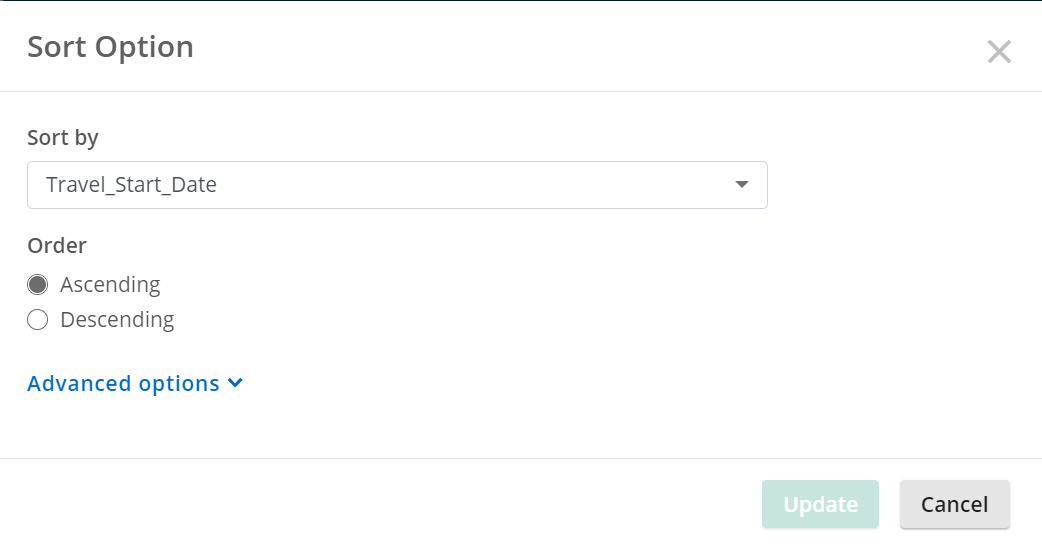
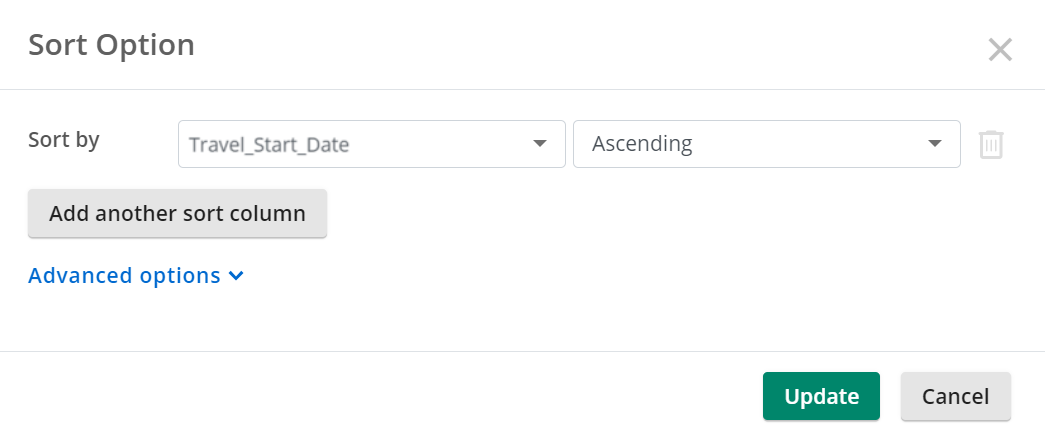
.11 release updates for Custom Reports and Lookup Table Enhancements best practices.

diff --git a/Content/Resources/Entities/lookup-tables.htm b/Content/Resources/Entities/lookup-tables.htm
@@ -11,11 +11,12 @@
             <li>Click <b>New</b>.</li>
             <li>Enter a name and description. </li>
             <li>Click <b>Choose File</b> and select the appropriate Excel document or CSV file to use as the source of the lookup table.</li>
+            <p class="note"><b>Note</b>: Upload speed will decrease as imported data sets and their file size increase.</p>
             <li><b>Optional:</b> Select the <b>Enable for Dynamic Fields</b>           option to allow the lookup table to be used as a data source for Laserfiche templates and fields when configuring dynamic fields. </li>
             <li><b>Optional:</b> Select the <b>Read-Only access to data</b> option to prevent modification of lookup table values through query rules. Recommended for cases where the lookup table data will not be updated or will only be updated through the <b>Replace Lookup Table Data</b> workflow activity.</li>
             <li><b>Optional:</b> Select the <b>Preserve Whitespace</b> option to save text as is. When not selected, Laserfiche will trim leading and trailing whitespace and normalize internal whitespace to a single space character.</li>
             <li>Click <b>Next</b> to proceed.</li>
-            <li>Choose which columns to include as part of the upload. When applicable, you will also be presented with an option to control the type of values. For example, if <MadCap:variable name="DoNotTranslate.Laserfiche" /> detects numerical values, you will have the option to choose whether to save the values as text or as a number.<p class="note"><b>Note</b>: Click the <b>Revert</b> button to return to their default values any changes made to column types and selected columns .</p></li>
+            <li>Choose which columns to include as part of the upload. When applicable, you will also be presented with an option to control the type of values. For example, if <MadCap:variable name="DoNotTranslate.Laserfiche" /> detects numerical values, you will have the option to choose whether to save the values as text or as a number.<p class="note"><b>Note</b>: Click the <b>Revert</b> button to return to their default values any changes made to column types and selected columns.</p></li>
             <li>Click <b>Create</b> to complete the upload process.</li>
         </ol>
         <h2>To update a lookup table</h2>
@@ -29,13 +30,14 @@
         </ol>
         <p class="note"><b>Note</b>: Use the download button (<img src="../Images/download.png" />) to download a copy of the data in the lookup table as a CSV file compressed as ZIP. This option can be useful when you want to bulk update the lookup table, but no longer have the original source Excel document or CSV file used to create the lookup table</p>
         <h3>Using a query rule to retrieve or update values </h3>
-        <p>Within Rules, create a Query to retrieve, insert, update or delete data from a lookup table. </p>
+        <p>Within Rules, create a Query to retrieve, insert, update or delete data from a lookup table. <span>Using the Rows to Return field to configure the desired number of rows for the query to return can increase performance.</span></p>
         <ol>
             <li>Within a workflow, use the <a href="../Workflow/Activities/Run-Business-Rules.htm" title="Click to learn more" alt="Click to learn more">Run Rule</a> activity to run the lookup table query rule as part of a workflow. </li>
             <li>Within a business process, use <a href="../../Forms-Current/Filling-Fields-with-Lookup-Rules.htm">Lookup Rules</a> to run a Select-type query rule to pre-populate a form with values from the lookup table.</li>
         </ol>
         <h2>Spreadsheet format</h2>
         <p>The spreadsheet file can be either an Excel Workbook (.xlsx) or a CSV text file.</p>
+        <p>Performance of the imported file is best as a CSV, followed by XLSX, and lastly as a ZIP.</p>
         <p>The first row of the spreadsheet should be the column names.</p>
         <p>If there is more than one worksheet in an Excel workbook, only the first worksheet can be uploaded to the lookup table.</p>
         <p>CSV files can be delimited by commas, semi-colons or tabs. For international compatibility, numbers in CSV files should use a period (“.”) as the decimal separator with no digit grouping (thousands) separator. Dates in CSV files should use the ISO format (YYYY-MM-DD).</p>
@@ -51,7 +53,7 @@
         <p><b>Related Links:</b>
         </p>
         <ul>
-            <li><a href="../../service/Service-Limits.htm" title="Click here to learn more." alt="Click here to learn more.">Process Automation Service Limits</a>: See file size limits for the Excel document or CSV file.</li>
+            <li><a href="../Service-Limits.htm" title="Click here to learn more." alt="Click here to learn more.">Process Automation Service Limits</a>: See file size limits for the Excel document or CSV file.</li>
         </ul>
         <MadCap:snippetBlock src="../Snippets/migrating-form-tables-into-word-documents.flsnp" />
     </body>

diff --git a/Content/Resources/Custom-Reports/Managing-Custom-Reports.htm b/Content/Resources/Custom-Reports/Managing-Custom-Reports.htm
@@ -4,11 +4,14 @@
     </head>
     <body>
         <h1>Managing Custom Reports</h1>
-        <p>From the main Custom Reports screen, you can create new reports, see the list of existing reports, modify report properties, and  delete reports.</p>
+        <p>From the main Custom Reports screen, you can create new reports, <span>copy existing reports</span>, see the list of existing reports, modify report properties, and  delete reports.</p>
         <p>
             <MadCap:expanding>
-                <MadCap:expandingHead>Show Me:<br /><img src="../Images/customreports_managehomepage1.png" style="width: 883px;height: 395px;border-left-style: solid;border-left-width: 1px;border-right-style: solid;border-right-width: 1px;border-top-style: solid;border-top-width: 1px;border-bottom-style: solid;border-bottom-width: 1px;" /><br /></MadCap:expandingHead>
-                <MadCap:expandingBody>&#160;</MadCap:expandingBody>
+                <MadCap:expandingHead>
+                    <br />
+                    <img src="../Images/customreports_managehomepage1_883x395.png" style="width: 883px;height: 395px;border-left-style: solid;border-left-width: 1px;border-right-style: solid;border-right-width: 1px;border-top-style: solid;border-top-width: 1px;border-bottom-style: solid;border-bottom-width: 1px;" />
+                    <br />
+                </MadCap:expandingHead>
             </MadCap:expanding>
         </p>
         <h2>Menu Pane (Left)</h2>
@@ -25,6 +28,8 @@
         <h2>Selecting and Opening a Report</h2>
         <p>To select a report, click on the row for the report or click the check box next to the report name.</p>
         <p>To open a report, click on the linked report name in the row, or select the report and click the <b>edit icon</b> <img src="../Images/customreports_editicon.png" style="width: 27px;height: 27px;" />at the top right corner of the table .</p>
+        <h2>Copying a Report</h2>
+        <p>To copy an existing report, select a report and click the <b>copy icon</b> <img src="../Images/customreports_copy-icon.png" style="width: 30px;height: 26px;" />at the top right corner of the table. The copied report will be named using "<i>{report_name} - Copy</i>."&#160;If the copied name exists, it will be "<i>{report_name} - Copy (1)</i>" and will increase the number as more copies are made.</p>
         <h2>Deleting a Report</h2>
         <p>To delete a report, select the report and click the <b>delete icon <img src="../Images/customreports_deleteicon.png" style="width: 23px;height: 27px;" /></b> at the top right corner of the table.</p>
         <ul>

diff --git a/Content/Forms-Current/Filling-Fields-with-Lookup-Rules.htm b/Content/Forms-Current/Filling-Fields-with-Lookup-Rules.htm
@@ -8,7 +8,7 @@
         <p> Lookup rules for form fields attempt to access data from your pre-configured <a href="../Resources/Rules/Rules.htm" title="Click here to learn more." alt="Click here to learn more.">rules</a>, and use this data for pre-populating fields or auto-suggesting field values. If you have data in an external database, you must import the relevant data into <a href="../Resources/Entities/lookup-tables.htm" title="Click here to learn more." alt="Click here to learn more.">lookup tables</a> before you can use lookups on that data.</p>
         <p>Business processes can look up data from  <a href="../Resources/Rules/Data-Queries/Getting-Started-with-Data-Queries.htm" title="Click here to learn more." alt="Click here to learn more.">lookup table queries</a>, <a href="../Resources/Rules/Formulas/Getting-Started-with-Formulas.htm" title="Click here to learn more." alt="Click here to learn more.">formulas</a>, <a href="../Resources/Integrations/integrationplatform.htm" title="Click here to learn more." alt="Click here to learn more.">application connections</a>, <a href="../Resources/Rules/web-request-rule.htm" title="Click here to learn more." alt="Click here to learn more.">web request rules</a>, and <a href="../Resources/Rules/Decision-Tables/Getting-Started-with-Decision-Tables.htm" title="Click here to learn more." alt="Click here to learn more.">decision tables</a>. </p>
         <p>To configure lookup rules, click on the <b>Lookup Rules</b> tab in the <a href="Key-Concepts-in-Forms.htm#Form" title="Click here to learn more." alt="Click here to learn more.">form designer</a>.</p>
-        <p style="background-color: #ffff00;">For best performance, turn on pagination for filling a table/collection and use drop-downs instead of checkbox or radio buttons.</p>
+        <p>For best performance, turn on pagination for filling a table/collection and use drop-downs instead of checkbox or radio buttons.</p>
         <p class="note"><b>Note:</b>&#160;Currently only web request rules using an application connection type will appear in the drop down selector for lookup type.</p>
         <h2 class="topicheading">Lookups with Lookup Tables</h2>
         <p>If you have table-like data from an external source, this should be inserted into a lookup table. Then, you can create a <a href="../Resources/Rules/Data-Queries/Getting-Started-with-Data-Queries.htm" title="Click here to learn more." alt="Click here to learn more.">query</a> that business processes can use for lookups.</p>

diff --git a/Content/Resources/Custom-Reports/Viewing-Custom-Reports.htm b/Content/Resources/Custom-Reports/Viewing-Custom-Reports.htm
@@ -108,11 +108,12 @@
         </p>
         <p>The following example shows a custom report that views names, departments, and travel start dates for employees. A sort can be applied to this data to show the order of travel start dates to understand which employee is traveling earliest.</p>
         <p>
-            <img src="../Images/customreports_sortexample1.png" style="border-left-style: solid;border-left-width: 1px;border-right-style: solid;border-right-width: 1px;border-top-style: solid;border-top-width: 1px;border-bottom-style: solid;border-bottom-width: 1px;width: 773px;height: 402px;" />
+            <img src="../Images/customreports_sortexample1.png" style="width: 773px;height: 323px;border-left-style: solid;border-left-width: 1px;border-right-style: solid;border-right-width: 1px;border-top-style: solid;border-top-width: 1px;border-bottom-style: solid;border-bottom-width: 1px;" />
         </p>
         <p>
             <img src="../Images/customreports_sortexample2.png" style="width: 773px;height: 385px;border-left-style: solid;border-left-width: 1px;border-right-style: solid;border-right-width: 1px;border-top-style: solid;border-top-width: 1px;border-bottom-style: solid;border-bottom-width: 1px;" />
         </p>
+        <p>Reports can also be sorted by multiple columns by clicking the <b>Add another sort column</b> button in the <b>Sort Option</b> dialog for a maximum of 3 total sort columns.</p>
         <h2>Drilldowns</h2>
         <p>For grouped reports, a drilldown is a table view of just the instances that make up that group. Clicking on the group row of a table or the group on a chart will open up this table with the configured columns.</p>
         <p><b>Example</b>
